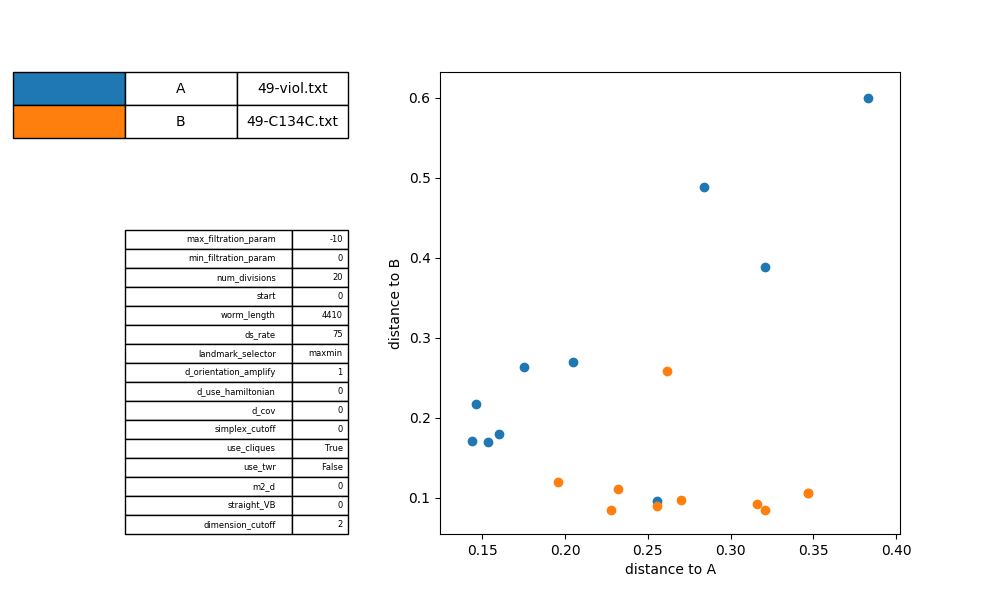
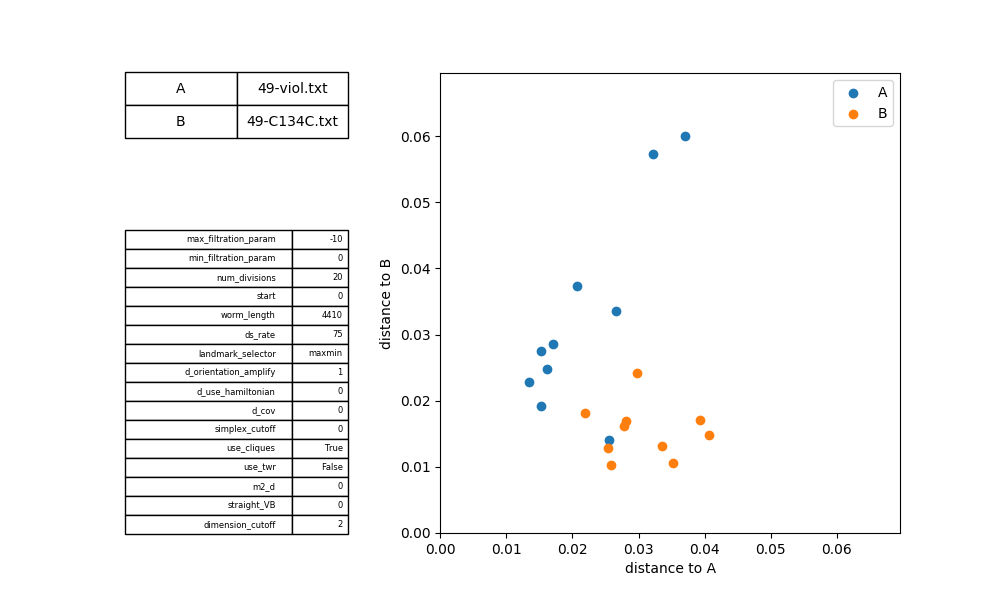
plot_clusters() done

diff --git a/PRFCompare/PRFCompare.py b/PRFCompare/PRFCompare.py
@@ -41,15 +41,16 @@ def clear_old_files(path, PD_movie_int):
 def get_scaled_dists(funcs_z, ref_func_z, weighting_func, metric, scale, PRF_res):
 	box_area = (1 / PRF_res) ** 2
 	norm_x, norm_y = np.meshgrid(np.linspace(0, 1, PRF_res), np.linspace(0, 1, PRF_res))
-	weighting_func_arr = weighting_func(norm_x, norm_y)
-
-	def get_dists(funcs_z, ref_func_z):
-		diffs = np.asarray([np.subtract(func_z, ref_func_z) for func_z in funcs_z])
-		diffs_weighted = np.asarray([np.multiply(diff, weighting_func_arr) for diff in diffs])
+	weighting_func_arr = weighting_func(norm_x, norm_y)												# TODO: plots of pointwise variance function, functional coefficient of variation
+																									# TODO: make sure immortal holes are counted in PRF !!!
+																									# TODO: PRF color bar 0 bin
+	def get_dists(funcs_z, ref_func_z):																# TODO: normalize PRF axes to sqrt(2)
+		diffs = np.asarray([np.subtract(func_z, ref_func_z) for func_z in funcs_z])					# TODO: add PRF to PD_movie_int !!
+		diffs_weighted = np.asarray([np.multiply(diff, weighting_func_arr) for diff in diffs])		# TODO: weight within sum, NOT squared
 		if metric == 'L1':
 			dists = np.asarray([(np.nansum(np.abs(diff))) * box_area for diff in diffs_weighted])
 		elif metric == 'L2':
-			dists = np.asarray([np.nansum(np.sqrt(np.power(diff, 2))) * box_area for diff in diffs_weighted])
+			dists = np.asarray([np.sqrt(np.nansum(np.power(diff, 2))) * box_area for diff in diffs_weighted])
 		else:
 			print "ERROR: metric not recognized. Use 'L1' or 'L2'."
 			sys.exit()
@@ -156,7 +157,7 @@ def plot_dists_vs_ref(
 		return np.asarray(funcs)
 
 	# ===================================================== #
-	# 				MAIN:	PRF_dist_plots()				#
+	# 				MAIN:	plot_dists_vs_ref()				#
 	# ===================================================== #
 
 	clear_old_files('output/PRFCompare/ref/PDs_and_movies/', PD_movie_int)
@@ -523,7 +524,7 @@ def plot_clusters(*args, **kwargs):
 				cellText=arr,
 				bbox=[0, 0, 1, 1],
 				cellLoc='center',
-				rowColours=['C0', 'C1'],
+				# rowColours=['C0', 'C1'],
 				# colWidths=[.5, 1]
 			)
 
@@ -538,13 +539,21 @@ def plot_clusters(*args, **kwargs):
 		add_filename_table(fname_ax, [filename_1, filename_2])
 		add_filt_params_table(params_ax, filt_params)
 
+		plot_ax.set_aspect('equal')
 		plot_ax.set_xlabel('distance to A')
 		plot_ax.set_ylabel('distance to B')
 
 		A = [d_1_vs_1, d_1_vs_2]
 		B = [d_2_vs_1, d_2_vs_2]
-		plot_ax.scatter(*A, c='C0')
-		plot_ax.scatter(*B, c='C1')
+		plot_ax.scatter(*A, c='C0', label='A')
+		plot_ax.scatter(*B, c='C1', label='B')
+
+		plot_ax.legend()
+
+		max_lim = np.max([plot_ax.get_xlim()[1], plot_ax.get_ylim()[1]])
+
+		plot_ax.set_xlim([0, max_lim])
+		plot_ax.set_ylim([0, max_lim])
 
 		fig.savefig(out_filename)
 
